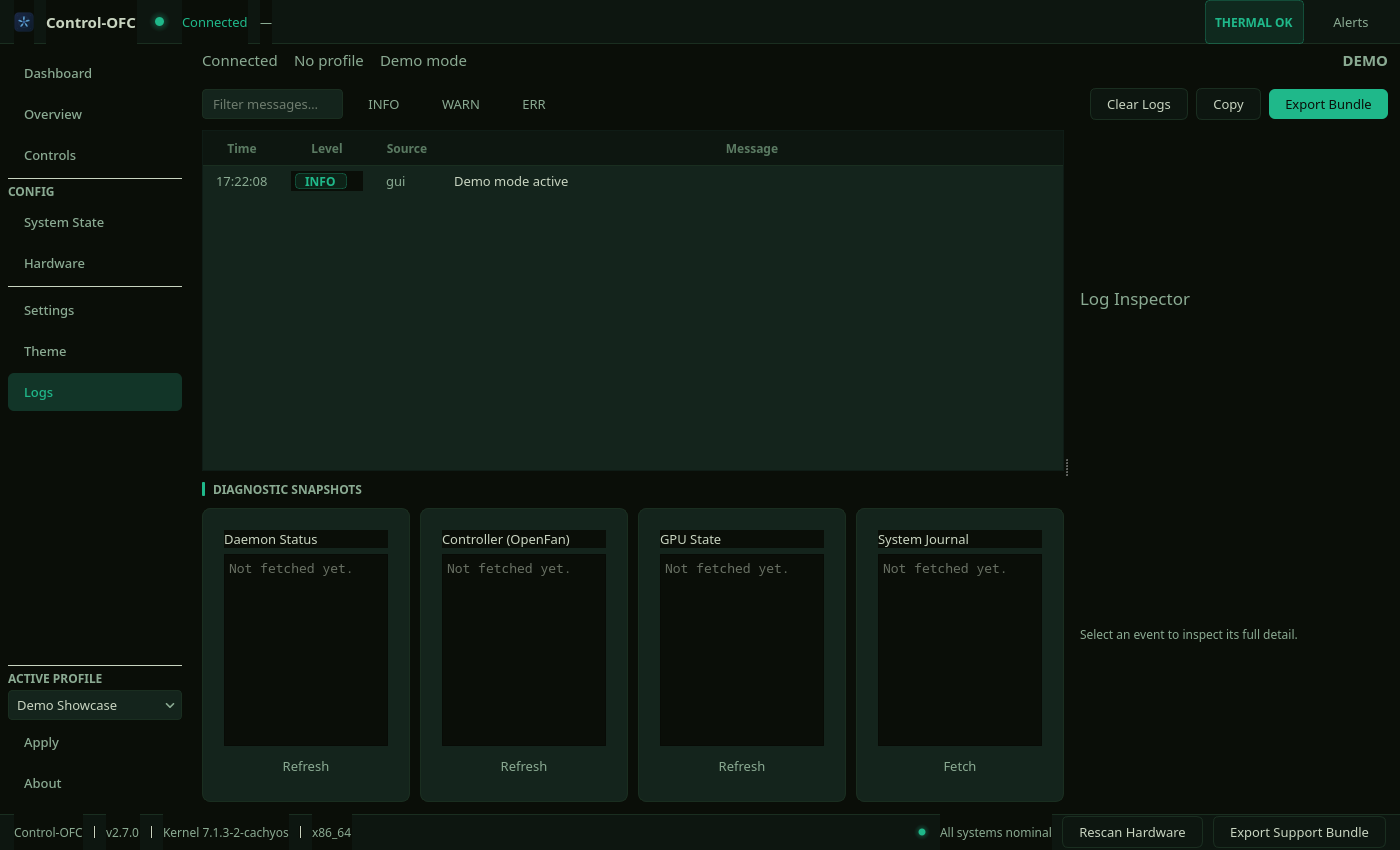
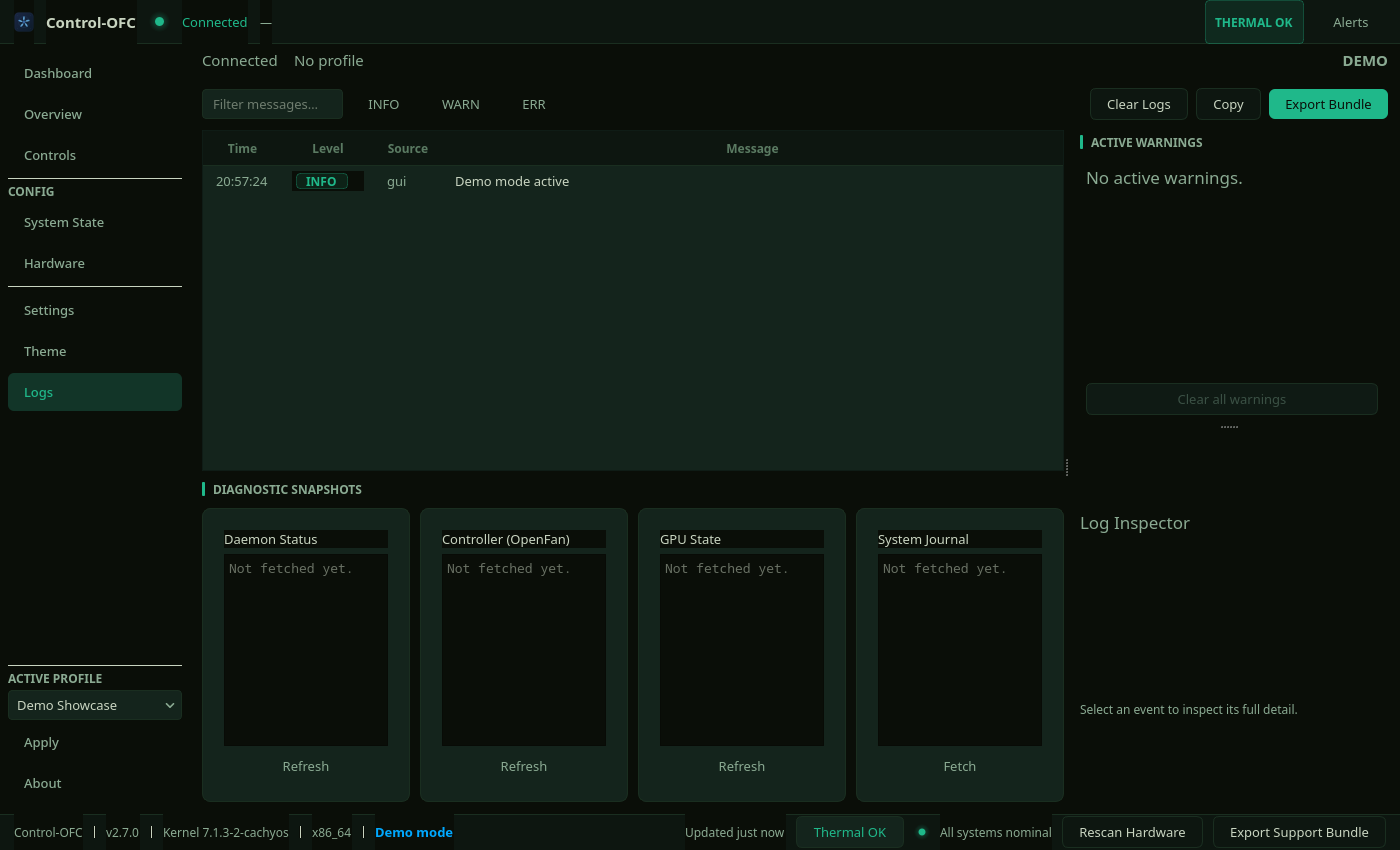
docs(release): v2.25.0 presentation + docs-verifier follow-ups
Release Phase 4 presentation layer, plus the four blocking findings from the
change-scoped docs verification of DEC-222.

README: "Latest release:" line -> v2.25.0 (2026-07-19).

Screenshots: re-captured all 13 against the rebuilt Dashboard. The hero
01_dashboard.png previously showed the retired five-panel layout.

Docs fixes:
- docs/02 module map still listed five modules DEC-222 deleted (fan_grouping,
  summary_card, fan_zone_card, quick_actions_panel, rpm_sparkline) and was
  missing the three it added; replaced with fan_cards_view, fan_control_card
  and warnings_view.
- docs/06 described fan_zones / fan_zone_order / fan_zones_collapsed as
  "written by behaviour elsewhere". Nothing writes them since DEC-222 removed
  the zone UI; they are retained dormant so no settings-schema migration is
  needed and saved zone data survives. card_sensor_bindings is in the same
  state and is now named alongside them.
- manual/diagnostics.md described Active Warnings as a status-banner badge that
  opens a dialog. Both were removed; the warnings list is a permanent panel on
  the Logs page.

Also fixes the local screenshot pipeline: scripts/capture_screenshots.py seeded
its demo curves with sensor_id "hwmon:k10temp:Tctl", but the demo service emits
"hwmon:k10temp:0000:00:18.3:Tctl". The two never matched, so every captured
curve resolved to no sensor — visible now that the fan cards show a TEMP column
(it read "—" on every card). scripts/ is gitignored local tooling.

diff --git a/docs/02_System_Architecture_and_Boundaries.md b/docs/02_System_Architecture_and_Boundaries.md
@@ -119,7 +119,8 @@ control_ofc/
     series_selection.py
     session_stats.py           # per-sensor session min/max tracker
     daemon_service_check.py    # systemd unit-state probe behind the no-daemon hint
-    fan_grouping.py            # Dashboard fan-zone grouping VM — DEC-184..187
+    fan_cards_view.py          # Dashboard per-control fan-card VM (DEC-222; replaced
+                               #   the fan-zone grouping VM retired with the zone grid)
     # Qt-free view-models: headless-testable presentation logic the redesign
     # extracted out of ui/pages so the pages stay thin (DEC-208..216, DEC-219).
     # Some import profile_service (loads QtCore, builds no widgets).
@@ -167,11 +168,11 @@ control_ofc/
     widgets/
       control_card.py          # fan role card (theme-derived size, user-resizable — DEC-128/129)
       curve_card.py            # curve card (theme-derived size, user-resizable — DEC-128/129)
-      summary_card.py          # dashboard summary tiles
-      fan_zone_card.py         # dashboard zone-grouped fan cards (DEC-176/179)
-      quick_actions_panel.py   # dashboard one-click saved-profile activation (DEC-213)
-      rpm_sparkline.py         # static owner-drawn recent-RPM mini-plot for fan cards (DEC-213)
-      dashboard_inspector.py   # collapsible dashboard side pane (Sensors browser)
+      fan_control_card.py      # dashboard per-control fan card — read-only status + Edit
+                               #   deep-link (DEC-222; replaced summary_card, fan_zone_card,
+                               #   quick_actions_panel and rpm_sparkline)
+      warnings_view.py         # active-warnings list, hosted by the Logs page (DEC-222)
+      dashboard_inspector.py   # dashboard Sensors rail (always mounted since DEC-222)
       curve_editor.py
       curve_edit_dialog.py
       member_editor.py         # fan-role membership editor

diff --git a/docs/06_Settings_Spec.md b/docs/06_Settings_Spec.md
@@ -34,9 +34,11 @@ Implemented settings:
 persistence (`daemon_state.json`), so a GUI-side toggle controlled nothing (DEC-138).
 
 *Persisted but not surfaced as page controls:* a few `AppSettings` keys are
-written by behaviour elsewhere rather than by a Settings widget — `fan_zones`,
+written by behaviour elsewhere rather than by a Settings widget. `fan_zones`,
 `fan_zone_order`, `fan_zones_collapsed` (Dashboard fan-zone layout, DEC-176/187)
-and `show_aio_pump_info` (the one-time "constant-speed pump" info popup, DEC-157,
+and `card_sensor_bindings` are **dormant since DEC-222** — the Dashboard surfaces
+that wrote them were removed, and the keys are retained unread so no settings-schema
+migration is needed and no saved zone assignments are lost. `show_aio_pump_info` (the one-time "constant-speed pump" info popup, DEC-157,
 flips to `false` once dismissed). They still round-trip through
 `AppSettings.from_dict`/`to_dict` and the import/export trust boundary.
 

diff --git a/manual/diagnostics.md b/manual/diagnostics.md
@@ -154,7 +154,7 @@ Three concepts that look similar but answer different questions:
 | Surface | Question it answers | Persistence |
 |---------|---------------------|-------------|
 | **Event Log** (this page) | *What has the GUI been doing in this session?* | In-process only, capped at 200 |
-| **Active Warnings** (status-banner badge → dialog) | *What is wrong right now?* | Cleared when the condition resolves or is acknowledged |
+| **Active Warnings** (this page, right-hand panel) | *What is wrong right now?* | Cleared when the condition resolves, or via "Clear all warnings" |
 | **System Journal** (snapshot button below) | *What happened across restarts on the daemon side?* | Persisted by systemd |
 
 ### Filters

diff --git a/README.md b/README.md
@@ -1,6 +1,6 @@
 # Control-OFC GUI
 
-**Latest release:** v2.24.0 — 2026-07-18. Pairs with `control-ofc-daemon` ≥ v2.11.0. See [`CHANGELOG.md`](CHANGELOG.md) for the full history.
+**Latest release:** v2.25.0 — 2026-07-19. Pairs with `control-ofc-daemon` ≥ v2.11.0. See [`CHANGELOG.md`](CHANGELOG.md) for the full history.
 
 Desktop fan control interface for Linux. Communicates with the [`control-ofc-daemon`](https://github.com/Plan-B-Development/control-ofc-daemon) service to monitor temperatures, manage fan speeds, and apply custom fan curves.
 
